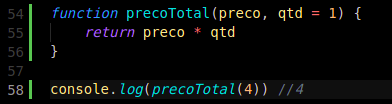
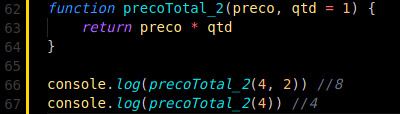
template string

diff --git a/index.html b/index.html
@@ -68,10 +68,33 @@
             <img src="/assets/retornaNaN.png" alt="retornaNaN">
 
             <p>
-                O ES6 trouxe a possibilidade de estabelecermos novos parâmetros padrão na função, previnindo bugs e facilitando a vida do balconista 😊
+                O ES6 trouxe a possibilidade de estabelecermos novos parâmetros padrão na função, previnindo bugs e facilitando a vida do balconista.
+            </p>
+
+            <img src="/assets/retorna4.png" alt="retorna4">
+
+            <p>
+                <em>
+                    Todas as funções estão declaradas no código desta página, você pode testá-las se quiser
+                </em>
+
+                😊
             </p>
 
             <h3>Template String</h3>
+
+            <p>
+                Uma feature que hoje não vivemos sem, mas não existia até 2015 no Js, 
+                agora podemos criar uma mistura de expressões e strings de uma forma muito mais semântica e organizada, sem ter que ficar concatenado, abrindo e fechando aspas, e se preocupando com os espaços.
+            </p>
+
+            <h4>Antes</h4>
+
+            <img src="/assets/semTemplateString.png" alt="semTemplateString">
+
+            <h4>Depois</h4>
+
+            <img src="/assets/comTemplateString.png" alt="comTemplateString">
 
             <h3>Destructuring</h3>
         </div>

diff --git a/script.js b/script.js
@@ -49,10 +49,11 @@ function retornaQtd(preco, qtd) {
     return qtd 
 }
 
-console.log(retornaQtd(4)) //undefined
-
-function precoTotal(preco, qtd = 1) {
+function precoTotal_1(preco, qtd) {
     return preco * qtd
 }
 
-console.log(precoTotal(4)) //4
+function precoTotal_2(preco, qtd = 1) {
+    return preco * qtd
+}
+

diff --git a/style.css b/style.css
@@ -93,5 +93,7 @@ main .container img {
 
 h3 {
     width: 50%;
+
+    margin-top: 40px;
 }
 
